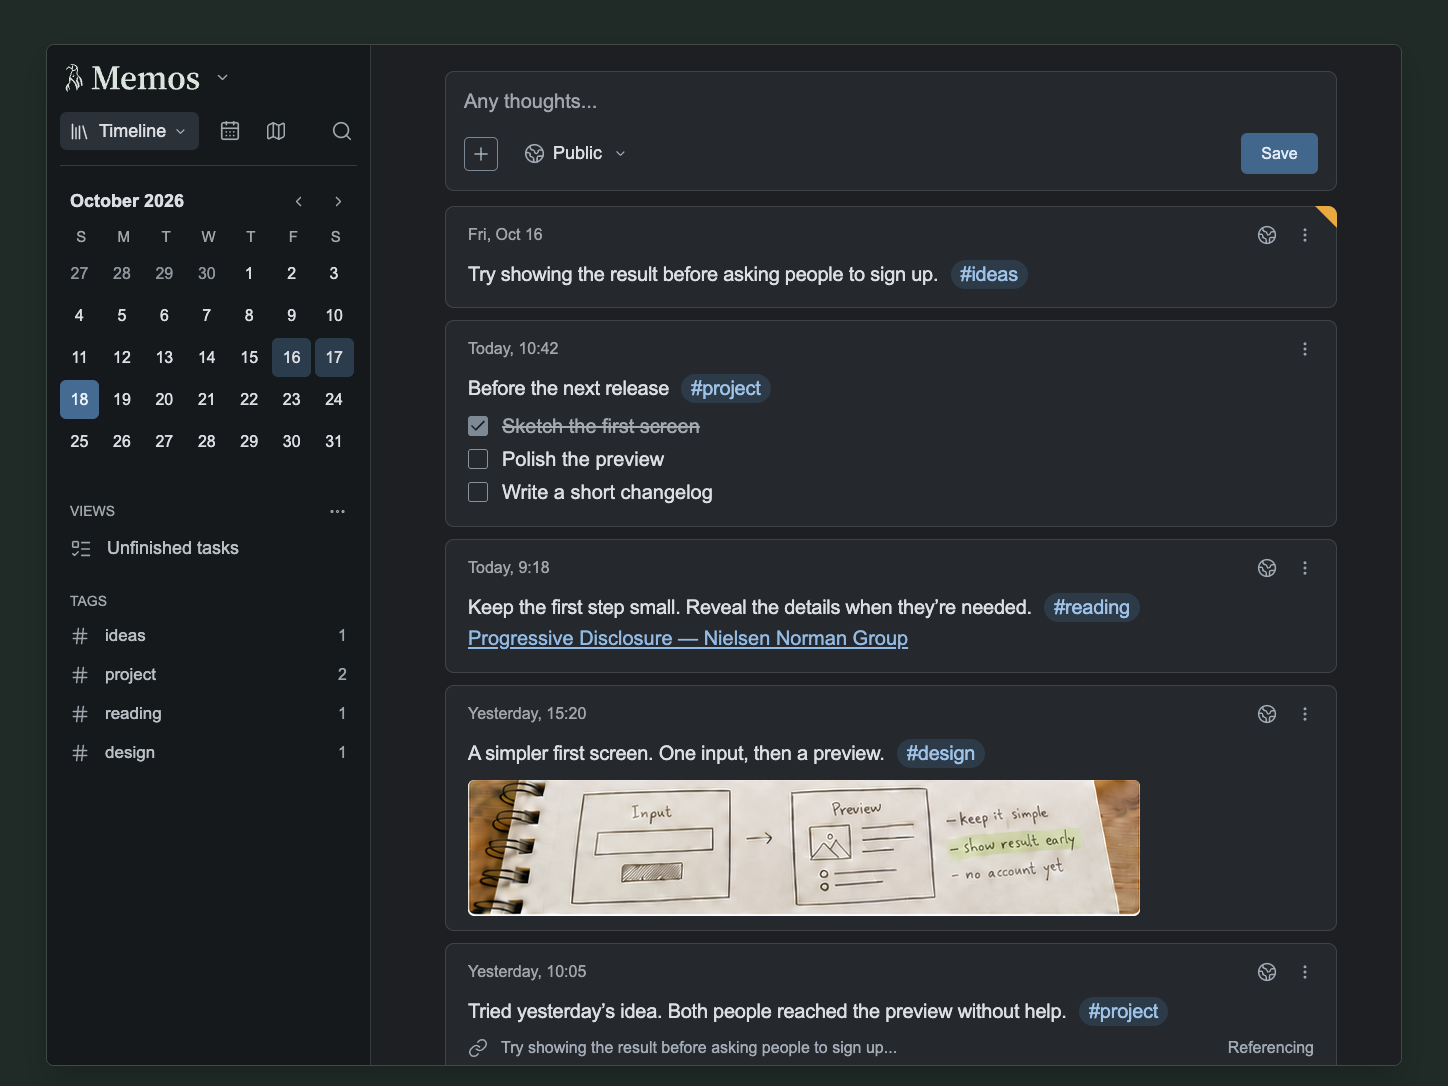
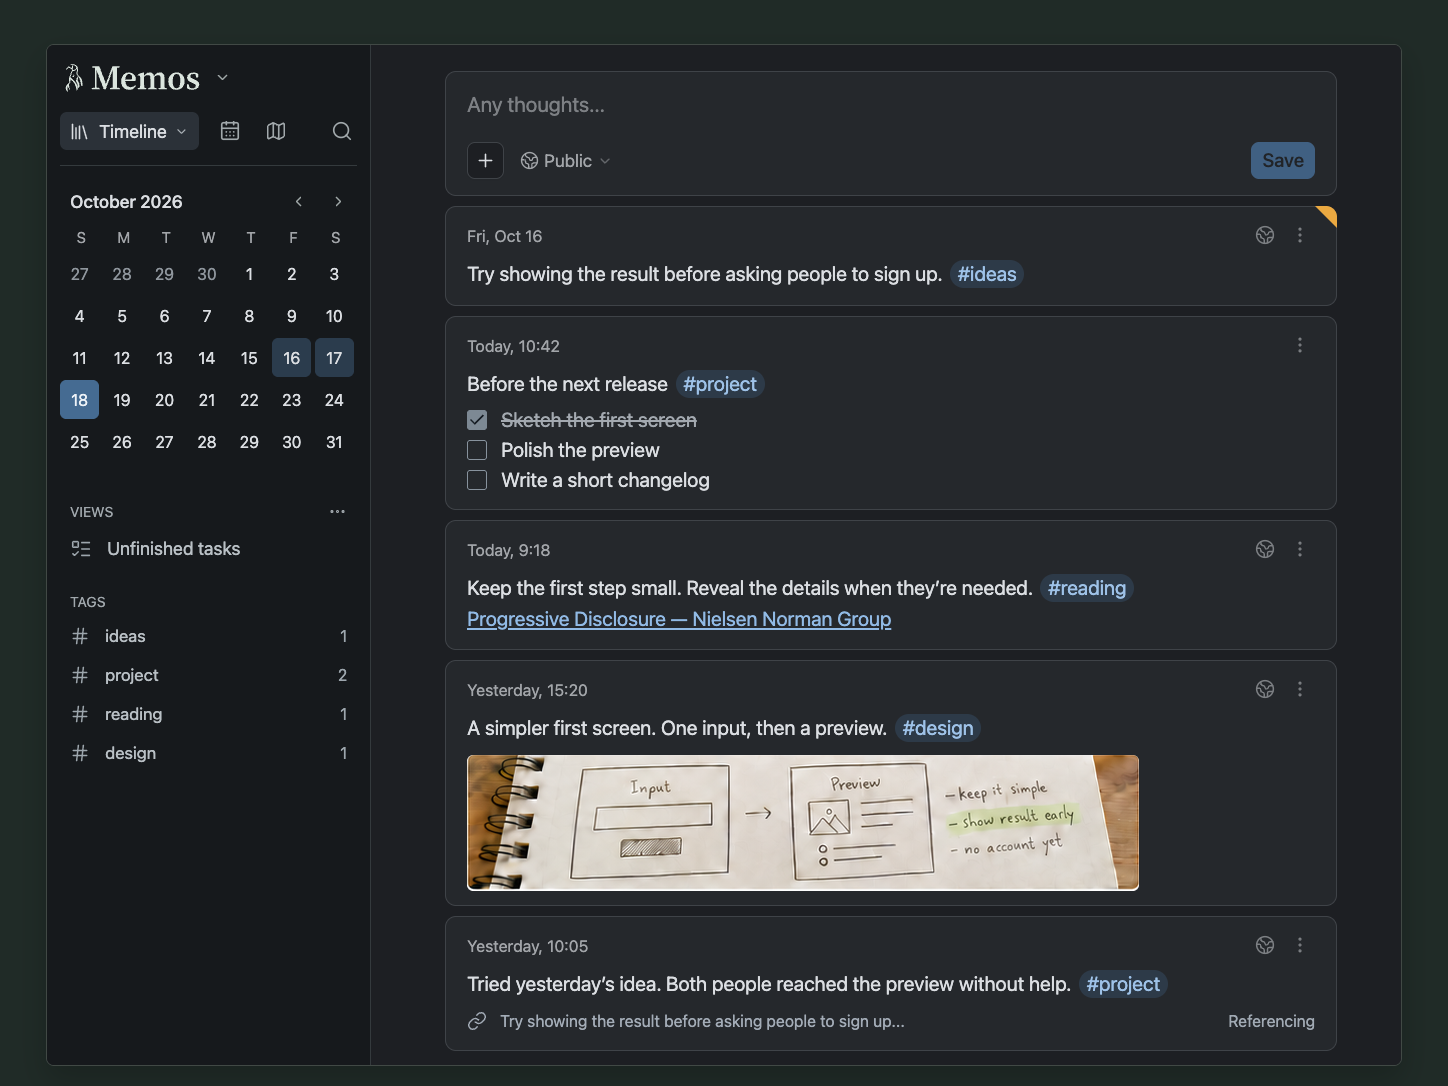
fix(preview): align timeline mockups with app styling

diff --git a/tools/preview/preview.css b/tools/preview/preview.css
@@ -1,15 +1,18 @@
 :root {
   color-scheme: light;
+  --font-sans: ui-sans-serif, system-ui, -apple-system, BlinkMacSystemFont, "Segoe UI", Roboto, "Helvetica Neue", Arial, "Noto Sans", sans-serif;
   --backdrop: #E8EEEB;
   --app: #FAF9F6;
   --sidebar: #F6F5F1;
   --card: #FFFFFF;
-  --ink: #171817;
-  --muted: #7C7D82;
-  --line: #DBDDDC;
+  --ink: #242011;
+  --muted: #74736E;
+  --line: #E5E4E1;
+  --action: #9E9D99;
   --tag: #E7EDF4;
   --tag-text: #2F5E8D;
-  --save: #8AA2C2;
+  --save: #98ACC0;
+  --save-text: #FDFCFB;
   --selected: #EBE9E3;
   --day-active: #DCE5ED;
   --day-today: #AFC3DA;
@@ -17,10 +20,10 @@
 }
 * { box-sizing: border-box; }
 html, body { margin: 0; padding: 0; }
-body { font-family: Arial, Helvetica, sans-serif; color: var(--ink); background: var(--backdrop); }
+body { font-family: var(--font-sans); color: var(--ink); background: var(--backdrop); }
 /* This is the export canvas. Every UI surface is rendered from opaque CSS colors.
    The notebook photograph is the only raster content; no screenshot is a background. */
-.stage { width: 1448px; height: 1086px; padding: 44px 46px 20px; background: var(--backdrop); }
+.stage { width: 1448px; height: 1086px; padding: 44px 46px 20px; font-family: var(--font-sans); color: var(--ink); background: var(--backdrop); }
 .app { display: flex; width: 1356px; height: 1022px; overflow: hidden; border: 1px solid #C9CECB; border-radius: 8px; background: var(--app); box-shadow: 0 14px 30px #253A2F12; }
 .sidebar { flex: 0 0 324px; padding: 10px 13px; border-right: 1px solid #E2E1DD; background: var(--sidebar); }
 .brand { display: flex; align-items: center; gap: 10px; height: 45px; margin-bottom: 12px; color: #17201C; }
@@ -34,7 +37,7 @@ body { font-family: Arial, Helvetica, sans-serif; color: var(--ink); background:
 .nav-active .icon:last-child { width: 15px; height: 15px; margin-left: -2px; color: #777B76; }
 .nav-search { margin-left: auto; }
 .calendar { padding: 17px 0 0; }
-.calendar-title { height: 36px; display: flex; align-items: center; padding: 0 10px; font-size: 18px; font-weight: 600; }
+.calendar-title { height: 36px; display: flex; align-items: center; padding: 0 10px; font-size: 17.5px; font-weight: 500; }
 .month-arrows { display: flex; align-items: center; gap: 23px; margin-left: auto; color: #858782; }
 .month-arrows .icon { width: 17px; height: 17px; }
 .weekdays, .days { display: grid; grid-template-columns: repeat(7, 1fr); }
@@ -54,35 +57,37 @@ body { font-family: Arial, Helvetica, sans-serif; color: var(--ink); background:
 .tag-row .icon { color: #8F938C; width: 20px; height: 20px; }
 .tag-count { margin-left: auto; color: #91958D; font-size: 16px; }
 .timeline { flex: 1; min-width: 0; padding: 26px 64px 0 74px; background: var(--app); }
-.composer, .memo { border: 1px solid var(--line); border-radius: 9px; background: var(--card); }
-.composer { height: 120px; padding: 18px 18px 16px; margin-bottom: 15px; }
-.placeholder { height: 43px; color: #93949A; font-size: 20px; }
-.composer-rail { height: 41px; display: flex; align-items: center; gap: 26px; }
-.insert { display: grid; place-items: center; width: 34px; height: 34px; border: 1px solid #AAB0B4; border-radius: 5px; background: #FFFFFF; color: #6E7379; }
-.insert .icon { width: 20px; height: 20px; }
-.audience { display: flex; align-items: center; gap: 8px; font-size: 18px; }
-.audience .icon { width: 21px; height: 21px; color: #7C8085; }
-.audience .chevron { width: 15px; height: 15px; margin-left: 3px; }
-.save { display: grid; place-items: center; margin-left: auto; width: 77px; height: 41px; border: 0; border-radius: 6px; background: var(--save); color: #FFFFFF; font: 16px Arial, sans-serif; }
-.memo { position: relative; padding: 14px 22px 14px; margin-bottom: 12px; }
-.memo-header { display: flex; align-items: center; justify-content: space-between; height: 27px; margin-bottom: 12px; font-size: 16px; color: var(--muted); }
-.memo-actions { display: flex; align-items: center; gap: 19px; color: #868A90; }
-.memo-actions .icon { width: 20px; height: 20px; }
-.memo-actions .ellipsis { width: 18px; height: 18px; }
-.pinned { position: absolute; top: -1px; right: -1px; width: 22px; height: 22px; background: var(--warning); border-top-right-radius: 9px; clip-path: polygon(0 0, 100% 0, 100% 100%); }
-.memo-line { margin: 0; font-size: 20px; line-height: 29px; letter-spacing: -0.25px; white-space: nowrap; }
-.tag { display: inline-block; margin-left: 7px; padding: 0 10px; min-height: 29px; border-radius: 999px; background: var(--tag); color: var(--tag-text); font-size: 20px; line-height: 29px; letter-spacing: -0.25px; vertical-align: baseline; }
-.memo-thought { min-height: 102px; }
-.memo-checklist { min-height: 207px; }
-.tasks { list-style: none; margin: 10px 0 5px; padding: 0; display: grid; gap: 7px; }
+.composer, .memo { border: 1px solid var(--line); border-radius: 11px; background: var(--card); }
+/* Composer proportions follow the app's 672px feed at this preview's scale.
+   Disabled colors are precomposited over the card to keep the PNG fills solid. */
+.composer { height: 125px; padding: 16px 21px; margin-bottom: 10px; }
+.placeholder { height: 54px; color: var(--action); font-size: 21px; line-height: 32px; }
+.composer-rail { height: 37px; display: flex; align-items: center; gap: 5px; }
+.insert { display: grid; place-items: center; width: 37px; height: 37px; border: 1px solid #DAD9D4; border-radius: 8px; background: var(--app); color: var(--ink); box-shadow: 0 1px 3px #0000000D; }
+.insert .icon { width: 21px; height: 21px; }
+.audience { display: flex; align-items: center; gap: 5px; padding: 0 11px; color: var(--muted); font-size: 17.5px; line-height: 24px; }
+.audience .icon { width: 19px; height: 19px; }
+.audience .chevron { width: 16px; height: 16px; color: #B9B9B6; }
+.save { display: grid; place-items: center; margin-left: auto; padding: 0 11px; height: 37px; border: 0; border-radius: 8px; background: var(--save); color: var(--save-text); font-family: inherit; font-size: 19px; font-weight: 500; line-height: 27px; }
+.memo { position: relative; padding: 14px 21px; margin-bottom: 10px; }
+.memo-header { display: flex; align-items: center; justify-content: space-between; height: 28px; margin-bottom: 10px; font-size: 16.25px; line-height: 23px; color: var(--muted); }
+.memo-actions { display: flex; align-items: center; gap: 5px; color: var(--action); }
+.memo-actions .icon { width: 30px; height: 30px; padding: 5px; }
+.memo-actions .ellipsis { width: 30px; height: 30px; }
+.pinned { position: absolute; top: -1px; right: -1px; width: 22px; height: 22px; background: var(--warning); border-top-right-radius: 11px; clip-path: polygon(0 0, 100% 0, 100% 100%); }
+.memo-line { margin: 0; font-size: 20px; line-height: 30px; white-space: nowrap; }
+.tag { display: inline-block; margin-left: 3px; padding: 0 8px; border-radius: 999px; background: var(--tag); color: var(--tag-text); font-size: 20px; line-height: 28px; vertical-align: baseline; }
+.memo-thought { min-height: 100px; }
+.memo-checklist { min-height: 194px; }
+.tasks { list-style: none; margin: 8px 0 0; padding: 0; display: grid; gap: 4px; }
 .task { display: flex; gap: 14px; align-items: center; min-height: 26px; font-size: 20px; line-height: 26px; }
 .checkbox { width: 20px; height: 20px; border: 1px solid #9C9E9F; border-radius: 3px; display: grid; place-items: center; background: #FFFFFF; flex: 0 0 auto; }
 .done .checkbox { background: #A2A3A4; border-color: #A2A3A4; color: #FFFFFF; }
 .checkbox .icon { width: 18px; height: 18px; stroke-width: 2.3; }
 .done .task-text { color: #909192; text-decoration: line-through; }
-.memo-reading { min-height: 134px; }
+.memo-reading { min-height: 130px; }
 .article-link { display: block; margin-top: 2px; color: #315F90; text-decoration: underline; text-underline-offset: 2px; font-size: 20px; line-height: 28px; }
-.memo-sketch { min-height: 244px; }
+.memo-sketch { min-height: 246px; }
 .notebook { display: block; width: 672px; height: 136px; object-fit: cover; border-radius: 6px; margin-top: 12px; }
 .memo-followup { min-height: 135px; margin-bottom: 0; }
 .reference { display: flex; align-items: center; gap: 13px; margin-top: 12px; font-size: 16px; color: #85888D; }

diff --git a/tools/preview/dark.css b/tools/preview/dark.css
@@ -1,6 +1,6 @@
 /* Dark counterpart to the approved light mockup. Geometry and content are shared.
    Core surfaces, text, dividers and pin use the app's default-dark palette.
-   All controls use opaque colors; only the outer frame casts a shadow. */
+   All controls use opaque colors. */
 :root {
   color-scheme: dark;
   --backdrop: #202B27;
@@ -10,15 +10,16 @@
   --ink: #DBDEE2;
   --muted: #A2A5A9;
   --line: #3F4348;
+  --action: #7D8084;
   --tag: #2D3A48;
   --tag-text: #9EC2E8;
-  --save: #42678D;
+  --save: #406082;
+  --save-text: #212428;
   --selected: #2B3138;
   --day-active: #2B3C4D;
   --day-today: #456B92;
   --warning: #EBA941;
 }
-.stage { color: var(--ink); }
 .app { border-color: #414945; box-shadow: 0 14px 30px #00000030; }
 .sidebar { border-color: #343A3D; }
 .brand { color: #DBE5DE; }
@@ -32,10 +33,8 @@
 .section-heading { color: #A0A7AC; }
 .view-row, .tag-row { color: #B9C0C5; }
 .view-row .icon, .tag-row .icon, .tag-count { color: #9DA6AD; }
-.placeholder { color: #A2A5AD; }
-.insert { border-color: #7A8794; background: var(--card); color: #B0BAC4; }
-.audience .icon, .memo-actions { color: #A2ABB6; }
-.save { color: #E3ECF6; }
+.insert { border-color: #3F4348; box-shadow: 0 1px 3px #0000000D; }
+.audience .chevron { color: #64676B; }
 .checkbox { border-color: #87929D; background: var(--card); }
 .done .checkbox { background: #7D8994; border-color: #7D8994; color: #171E25; }
 .done .task-text { color: #A3A9B0; }

diff --git a/tools/preview/export.js b/tools/preview/export.js
@@ -6,12 +6,9 @@ document.querySelector("#export-png").addEventListener("click", async () => {
     await document.fonts.ready;
     const stage = document.querySelector(".stage");
     const css = document.querySelector("style").textContent.replaceAll(":root {", ".stage {");
-    const ink = getComputedStyle(stage).color;
     const markup = new XMLSerializer().serializeToString(stage);
     const svg =
-      '<svg xmlns="http://www.w3.org/2000/svg" width="1448" height="1086" viewBox="0 0 1448 1086"><foreignObject x="0" y="0" width="100%" height="100%"><div xmlns="http://www.w3.org/1999/xhtml" style="font-family:Arial,Helvetica,sans-serif;color:' +
-      ink +
-      '"><style>' +
+      '<svg xmlns="http://www.w3.org/2000/svg" width="1448" height="1086" viewBox="0 0 1448 1086"><foreignObject x="0" y="0" width="100%" height="100%"><div xmlns="http://www.w3.org/1999/xhtml"><style>' +
       css +
       "</style>" +
       markup +

diff --git a/tools/preview/README.md b/tools/preview/README.md
@@ -20,8 +20,8 @@ The generated HTML in `dist/` is ignored by Git.
 Use the PNG download button for published assets. A browser screenshot may use
 lossy encoding even when its filename ends in `.png`. The exporter draws the
 HTML/CSS through an SVG `foreignObject` onto a canvas and explicitly encodes PNG.
-Fonts use Arial with Helvetica and sans-serif fallbacks; text rasterization can
-vary with the browser and installed fonts.
+Fonts use the app's system sans-serif stack; text rasterization can vary with
+the operating system and browser. The exported stage carries its own font styles.
 
 ## Edit
 
